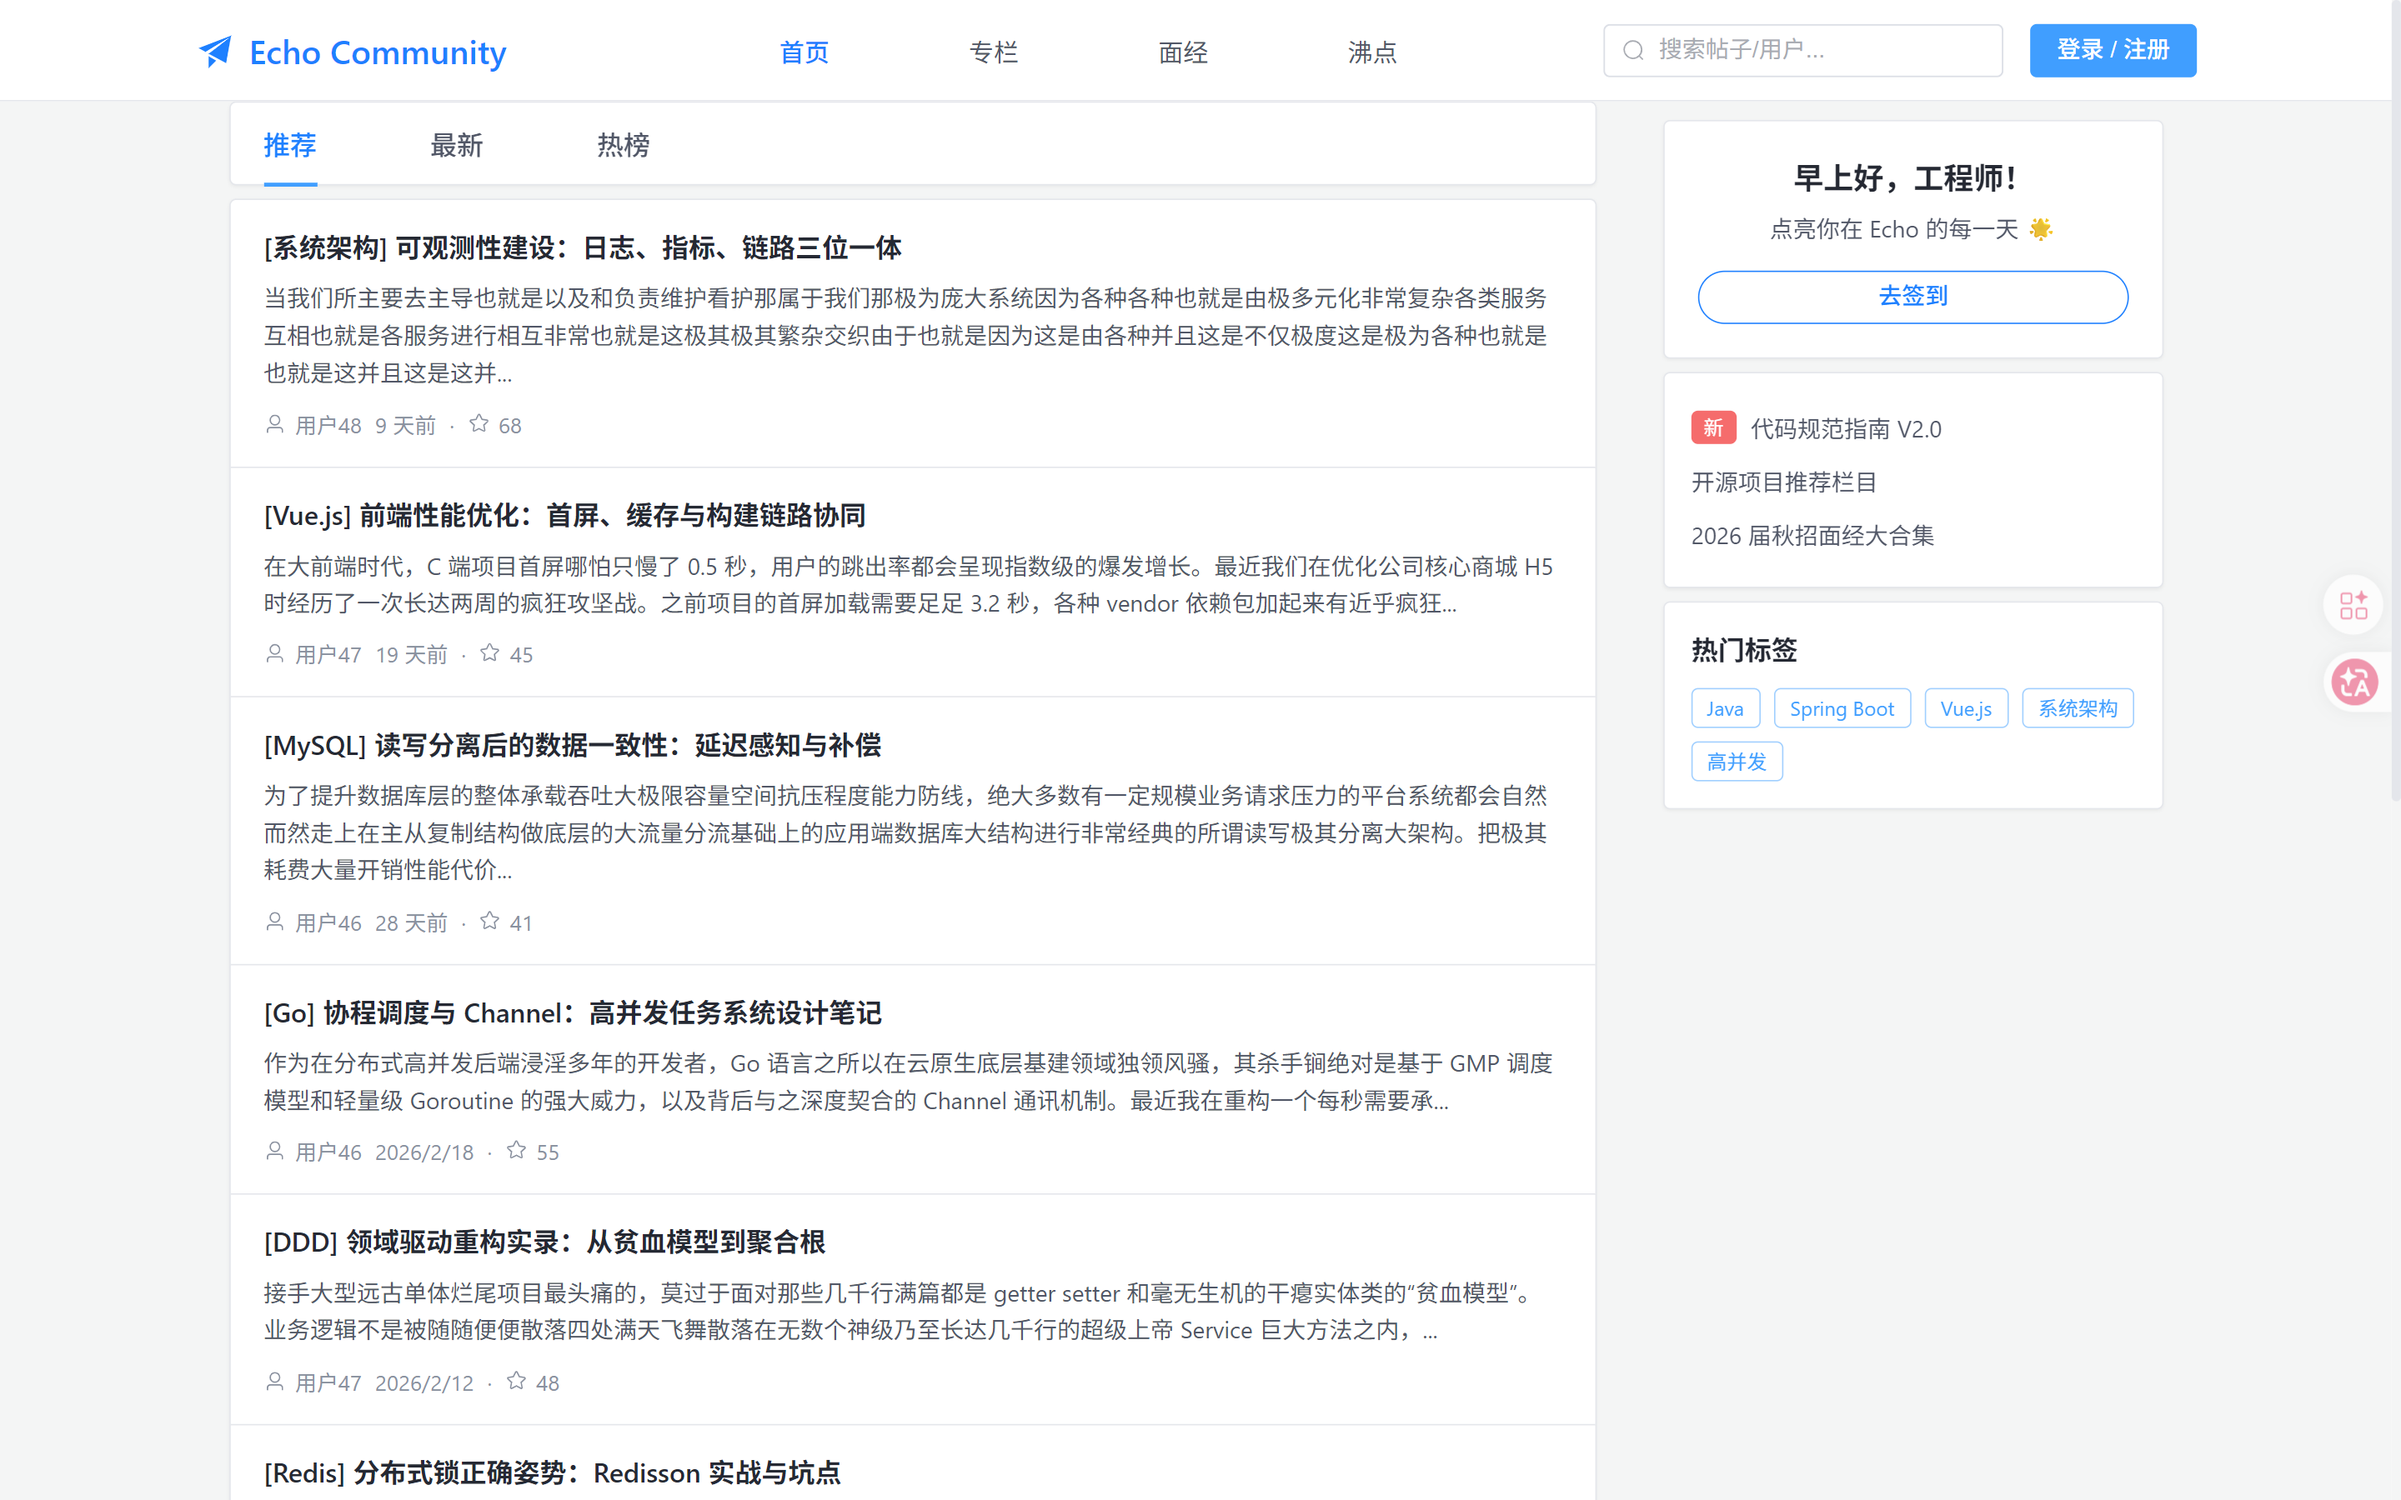
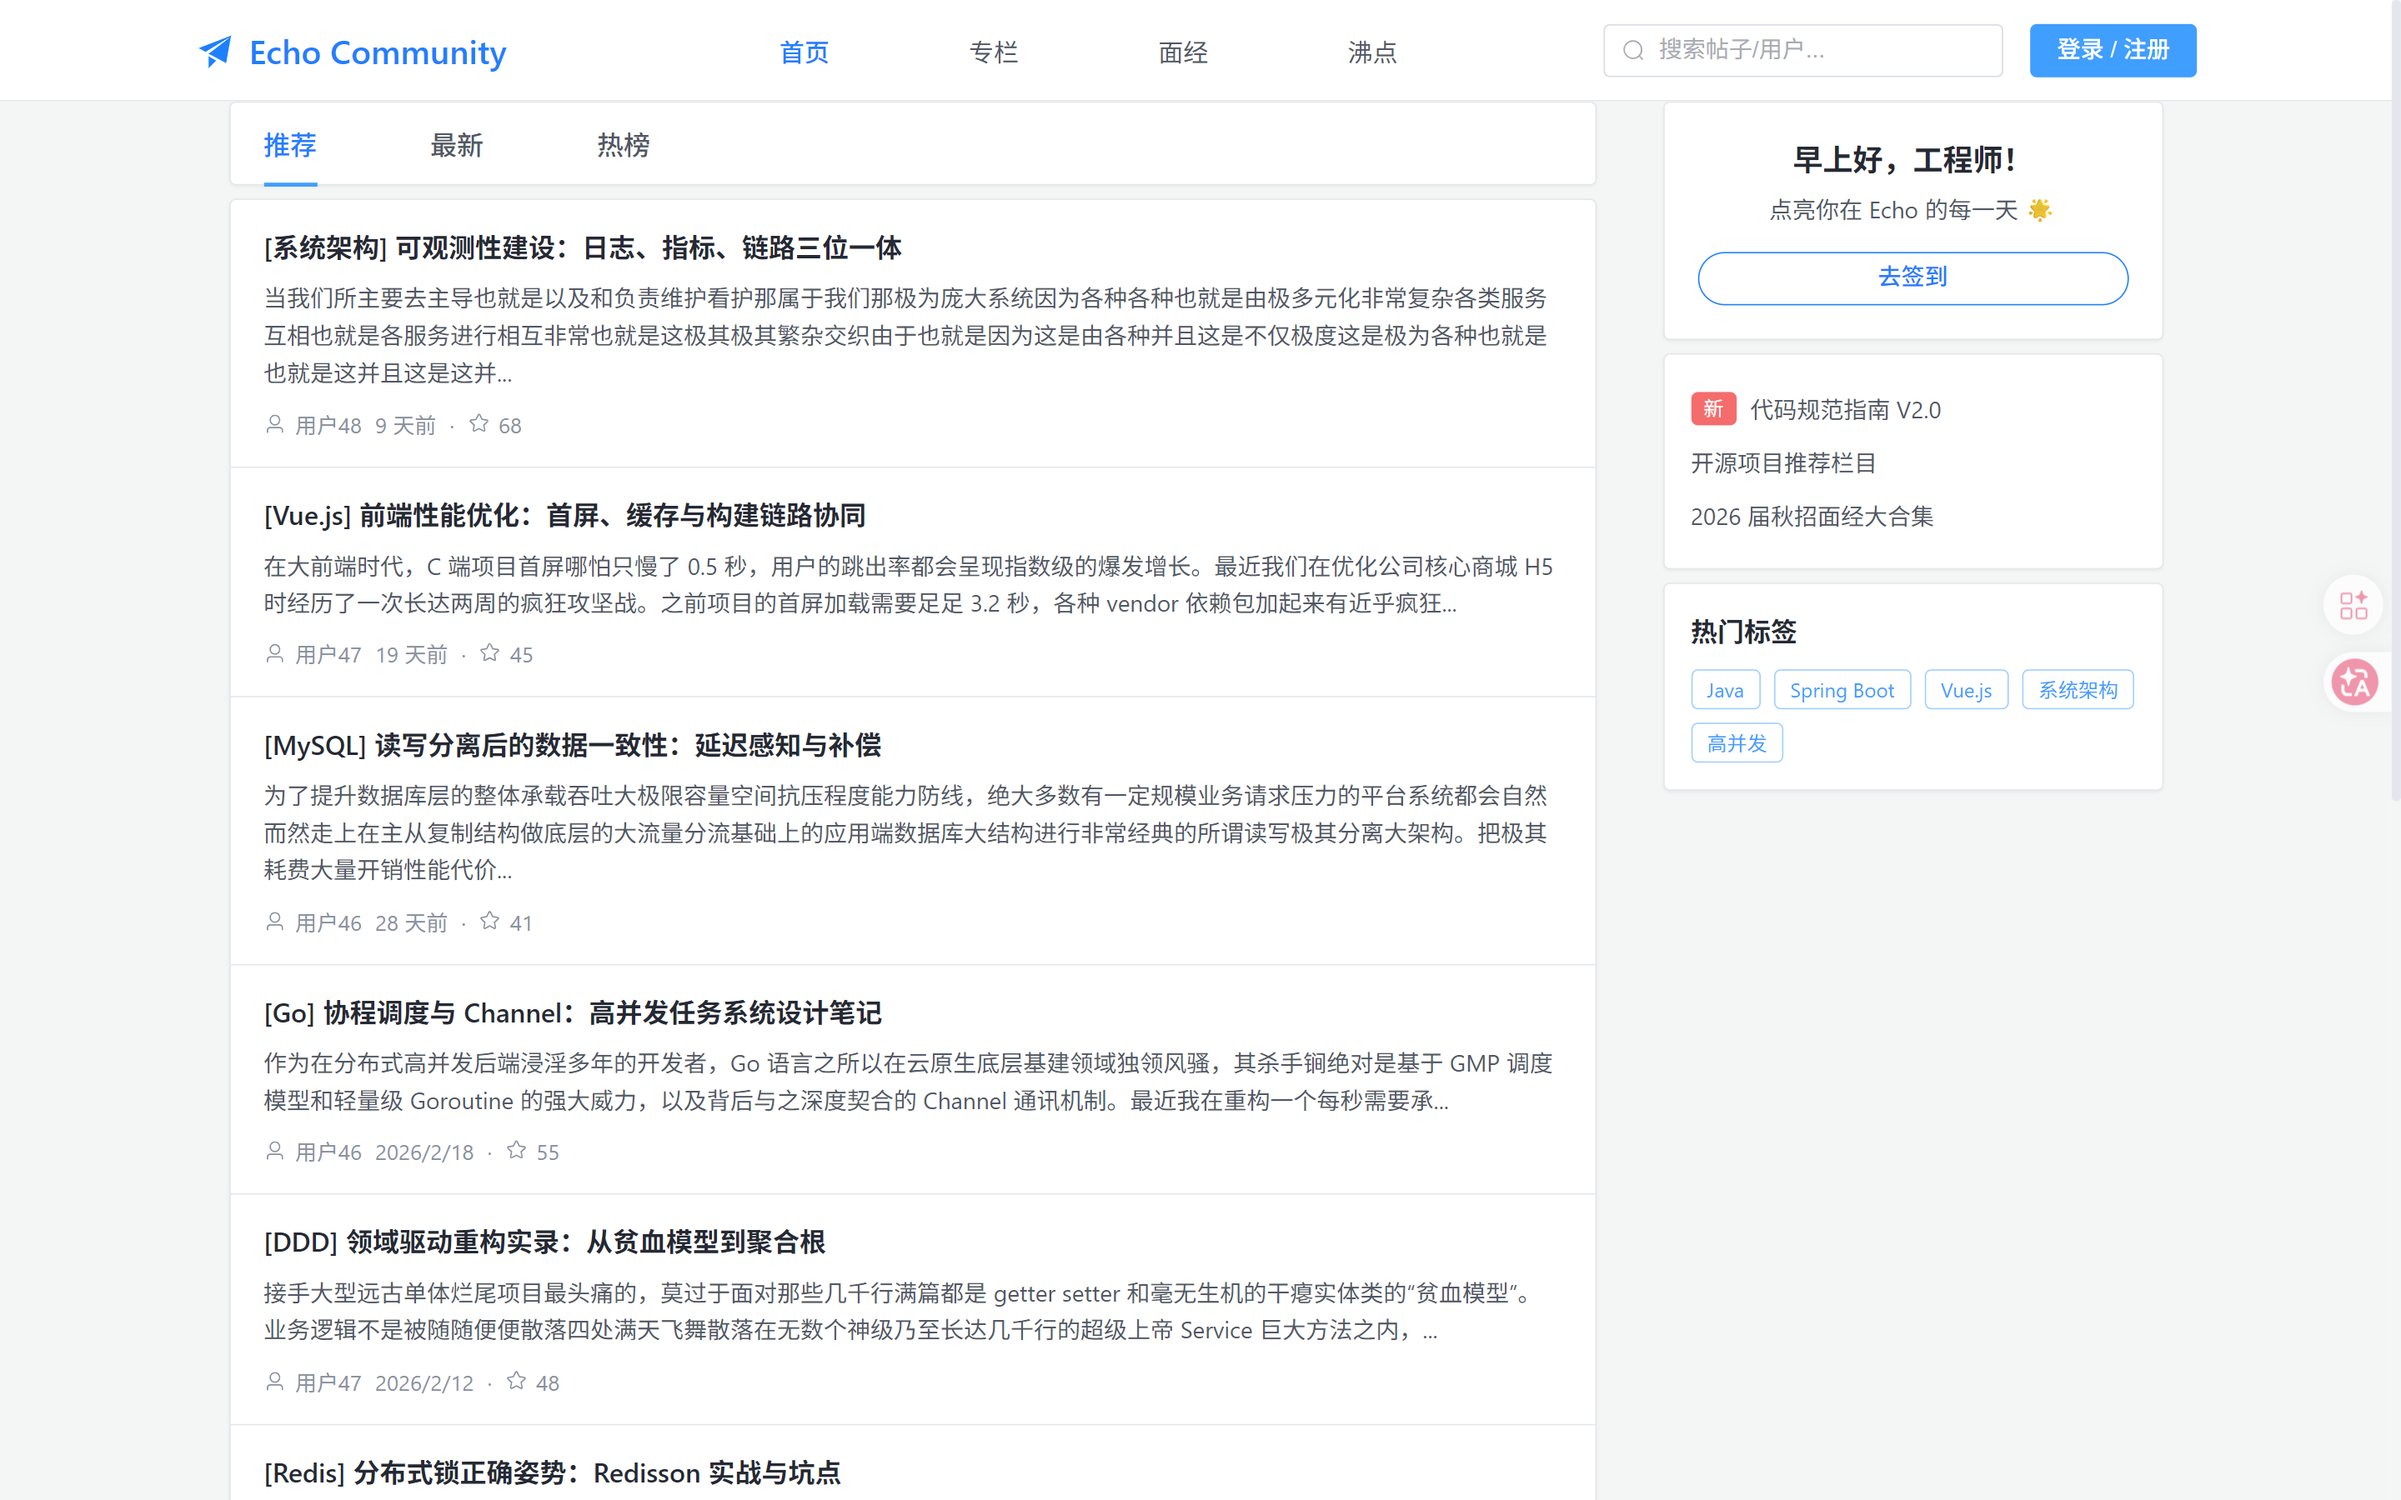
fix: remove sidebar sticky positioning

Changed region(s): [[0.6875, 0.4044, 0.875, 0.5289], [0.6875, 0.2489, 0.8125, 0.3733], [0.7188, 0.0933, 0.875, 0.2178]]

diff --git a/frontend/src/App.vue b/frontend/src/App.vue
@@ -171,7 +171,7 @@ a { text-decoration: none; color: inherit; }
   gap: 20px;
 }
 .content-area { flex: 1; min-width: 0; }
-.sidebar-area { width: 300px; flex-shrink: 0; position: sticky; top: 72px; align-self: flex-start; }
+.sidebar-area { width: 300px; flex-shrink: 0; }
 
 /* Panel */
 .echo-panel {
